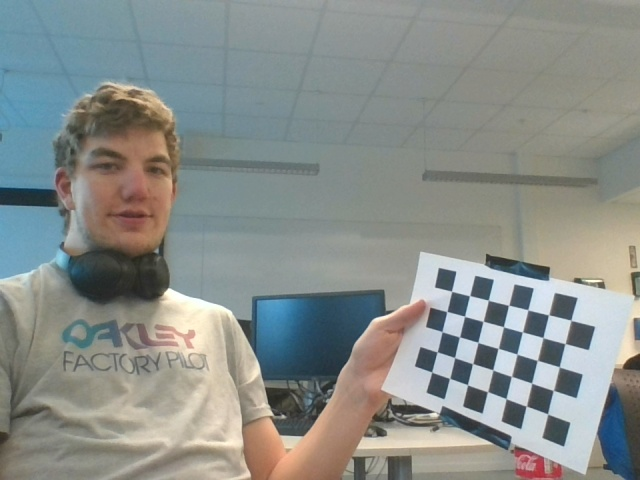
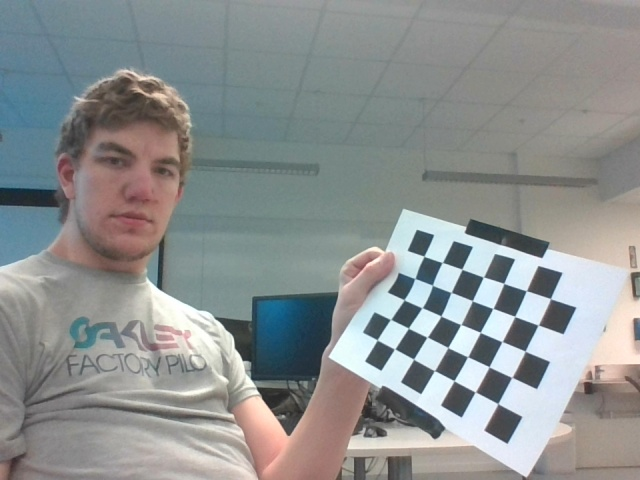
Updated TextUI and calibration

diff --git a/TextUI.py b/TextUI.py
@@ -7,7 +7,7 @@ class TextUI():
     Recieve and snd text commands from user.
     '''
     def __init__(self, connector):
-        self.DEBUG = True
+        self.DEBUG = False
         self.c = connector
     def start(self):
         if self.DEBUG:
@@ -33,7 +33,9 @@ class TextUI():
               '2. List cameras \n'
               '3. Import cameras \n'
               '4. Calibrate cameras \n'
-              '5. Test cameras'
+              '5. Test cameras \n'
+              '7. Videotest cameras'
+
               )
         choice = int(input('Type: '))
         if choice is 1:
@@ -52,7 +54,8 @@ class TextUI():
             self.calibCameras()
         elif choice is 5:
             self.testCameras()
-
+        elif choice is 7:
+            self.videoTest(0)
 
     def calibCameras(self):
         '''
@@ -82,7 +85,7 @@ class TextUI():
             print('Calibration process started.')
             camIDs = self.c.getConnectedCams()
             for ID in camIDs:
-                _calibSingleCam(ID)
+                self._calibSingleCam(ID)
 
     def _calibSingleCam(self, ID):
         notFinished = True
@@ -113,6 +116,17 @@ class TextUI():
         if choice in camIndexs:
             img = self.c.getImgFromSingleCam(choice)
             text = 'Test: Cam src: ', str(choice)
-            cv2.imshow('Test', img)
+            cv2.imshow('Raw', img)
             cv2.waitKey(0)
 
+    def videoTest(self, ID):
+        cam = self.c.getCamFromIndex(ID)
+        notFinished = True
+        while notFinished:  #
+            frame = cam.getSingleFrame()
+            undisFrame = cam.undistort(frame)
+            cv2.imshow('Raw', frame)
+            cv2.imshow('Undistorted', undisFrame)
+            key = cv2.waitKey(20)
+            if key == 27:  # exit on Esc
+                break

diff --git a/IntrinsicCalibration.py b/IntrinsicCalibration.py
@@ -16,7 +16,11 @@ class IntrinsicCalibration():
     '''
 
     def __init__(self):
-        pass
+        self._curr_mtx = None
+        self.curr_dist = None
+        self.curr_newcameramtx = None
+        self.curr_roi = None
+
     def calibCamDefault(self, frame=None, useDemo=False, showImg=False):
         '''
         Doing checkboard calib:
@@ -96,8 +100,7 @@ class IntrinsicCalibration():
         cv2.imshow('Original', frame)
         cv2.waitKey(0)
         cv2.imwrite('images/calibresult.png', dst)
-    def undistortImg(self):
-        pass
+
     def calibCamVeg(self, frame):
         try:
             cv2.imwrite('images/img.jpg', frame)
@@ -152,11 +155,21 @@ class IntrinsicCalibration():
             #cv2.imshow('Calib res', dst)
             #cv2.waitKey(0)
             cv2.imwrite('images/calibresult.png', dst)
-  #          np.savez('B', ret=ret, mtx=mtx, dist=dist, rvecs=rvecs, tvecs=tvecs)
+            np.savez('IntriCalib', ret=ret, mtx=mtx, dist=dist, rvecs=rvecs, tvecs=tvecs)
+            npzfile = np.load('IntriCalib.npz')
+            print('Intrinsi calib: ', npzfile['mtx'])
         except cv2.error:
             print('OpenCV failed. ')
             raise FailedCalibrationException(msg='Calib failed')
 
+    def undistortImage(self, img):
+        dst = cv2.undistort(img, self._curr_mtx, self.curr_dist, None, self.curr_newcameramtx)
+        if not dst.any():  # dst is empty, no calib result is found.
+            raise FailedCalibrationException(msg='Failed to do cv2.undistort(). Try with new picture.')
+        # crop the image
+        x, y, w, h = self.curr_roi
+        dst = dst[y:y + h, x:x + w]
+        return dst
 if __name__ == "__main__":
     ic = IntrinsicCalibration()
     ic.calibCamDefault(useDemo=True)

diff --git a/Camera.py b/Camera.py
@@ -16,10 +16,9 @@ class Camera():
         self._cam_pose = cam_pose_mtrc
         self.src = srcIndex
         self.vidCap = cv2.VideoCapture(self.src)
-        #if cam_pose_mtrc is not None:
-        #    self.inv_cam_pose = np.linalg.inv(self.cam_pose)
         self._aov = aov
         self.IC = IntrinsicCalibration()
+
     def startVidStream(self):
         self._vidstreamthread = WebcamVideoStream(src=0,camName=camName)
         self._vidstreamthread.start()
@@ -46,6 +45,8 @@ class Camera():
         #print('Chessboardframe is saved to this came on index ', self._ID, '.')
         self.IC.calibCamVeg(cbFrame)
 
+    def undistort(self, img):
+        self.IC.undistortImage(img)
 #otc1 = OTCam()
 #otc2 = OTCam(camName="Cam2",srcIndex=1)
 #time.sleep(1)
